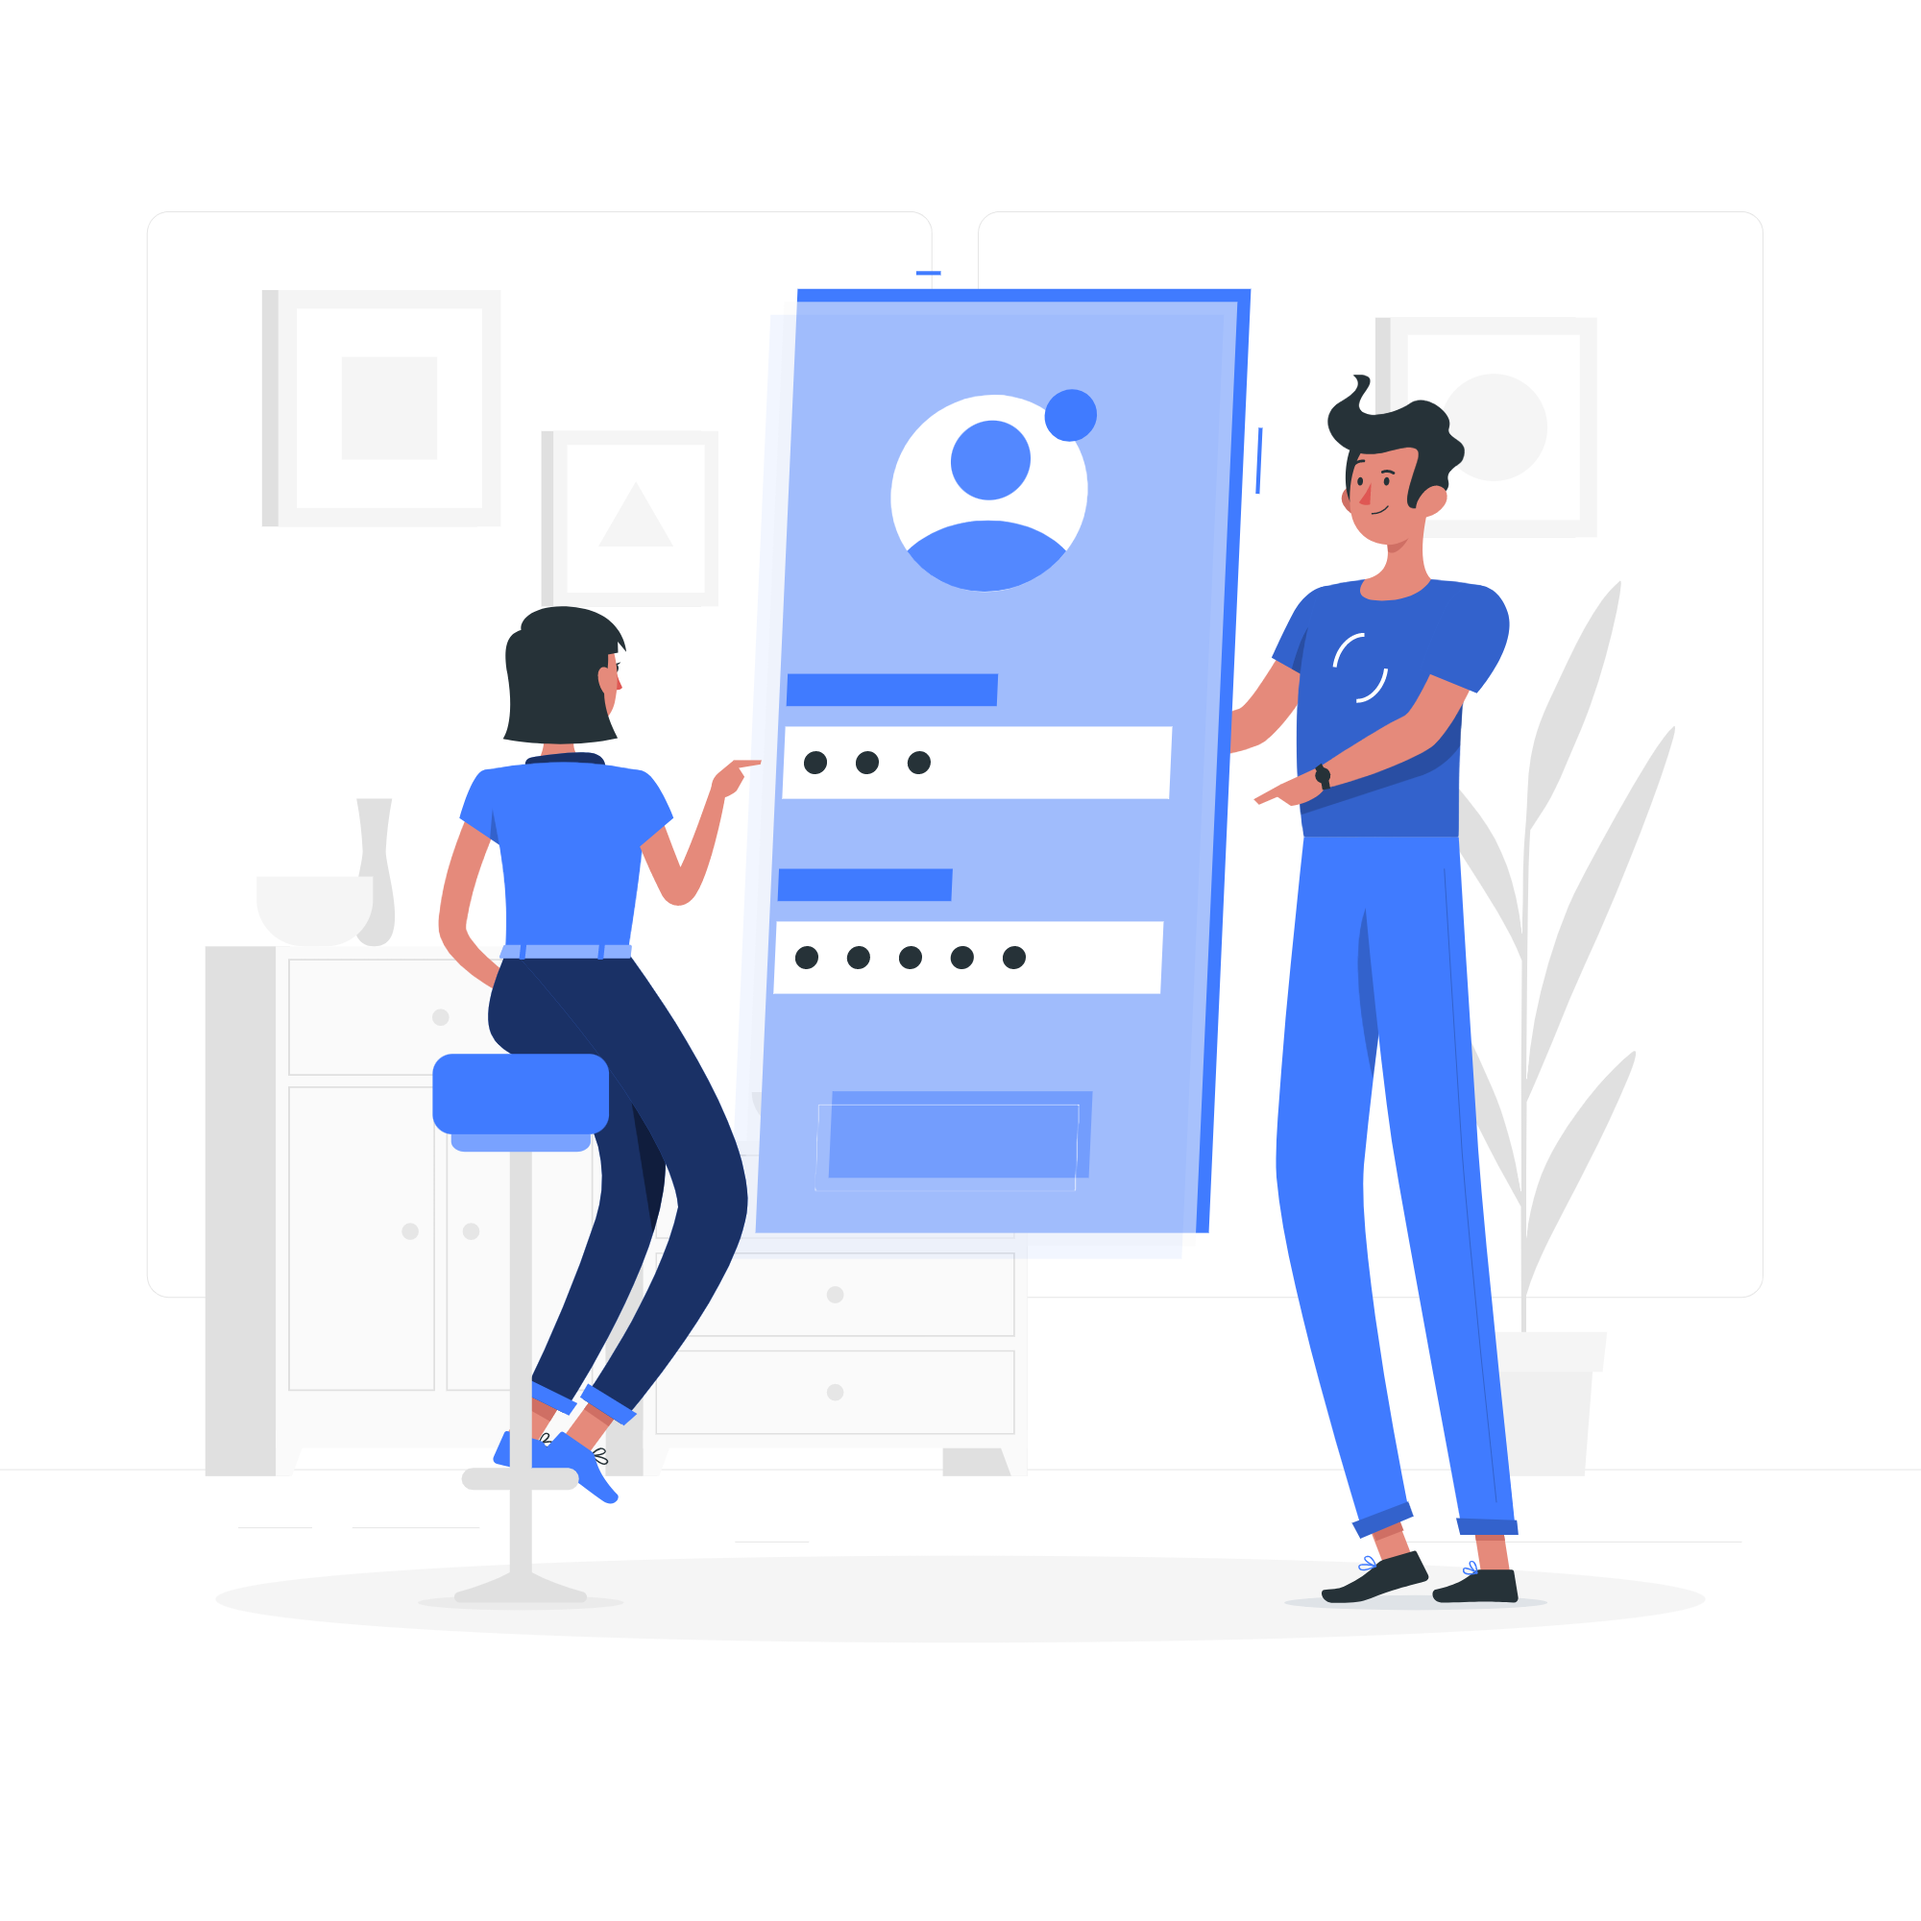
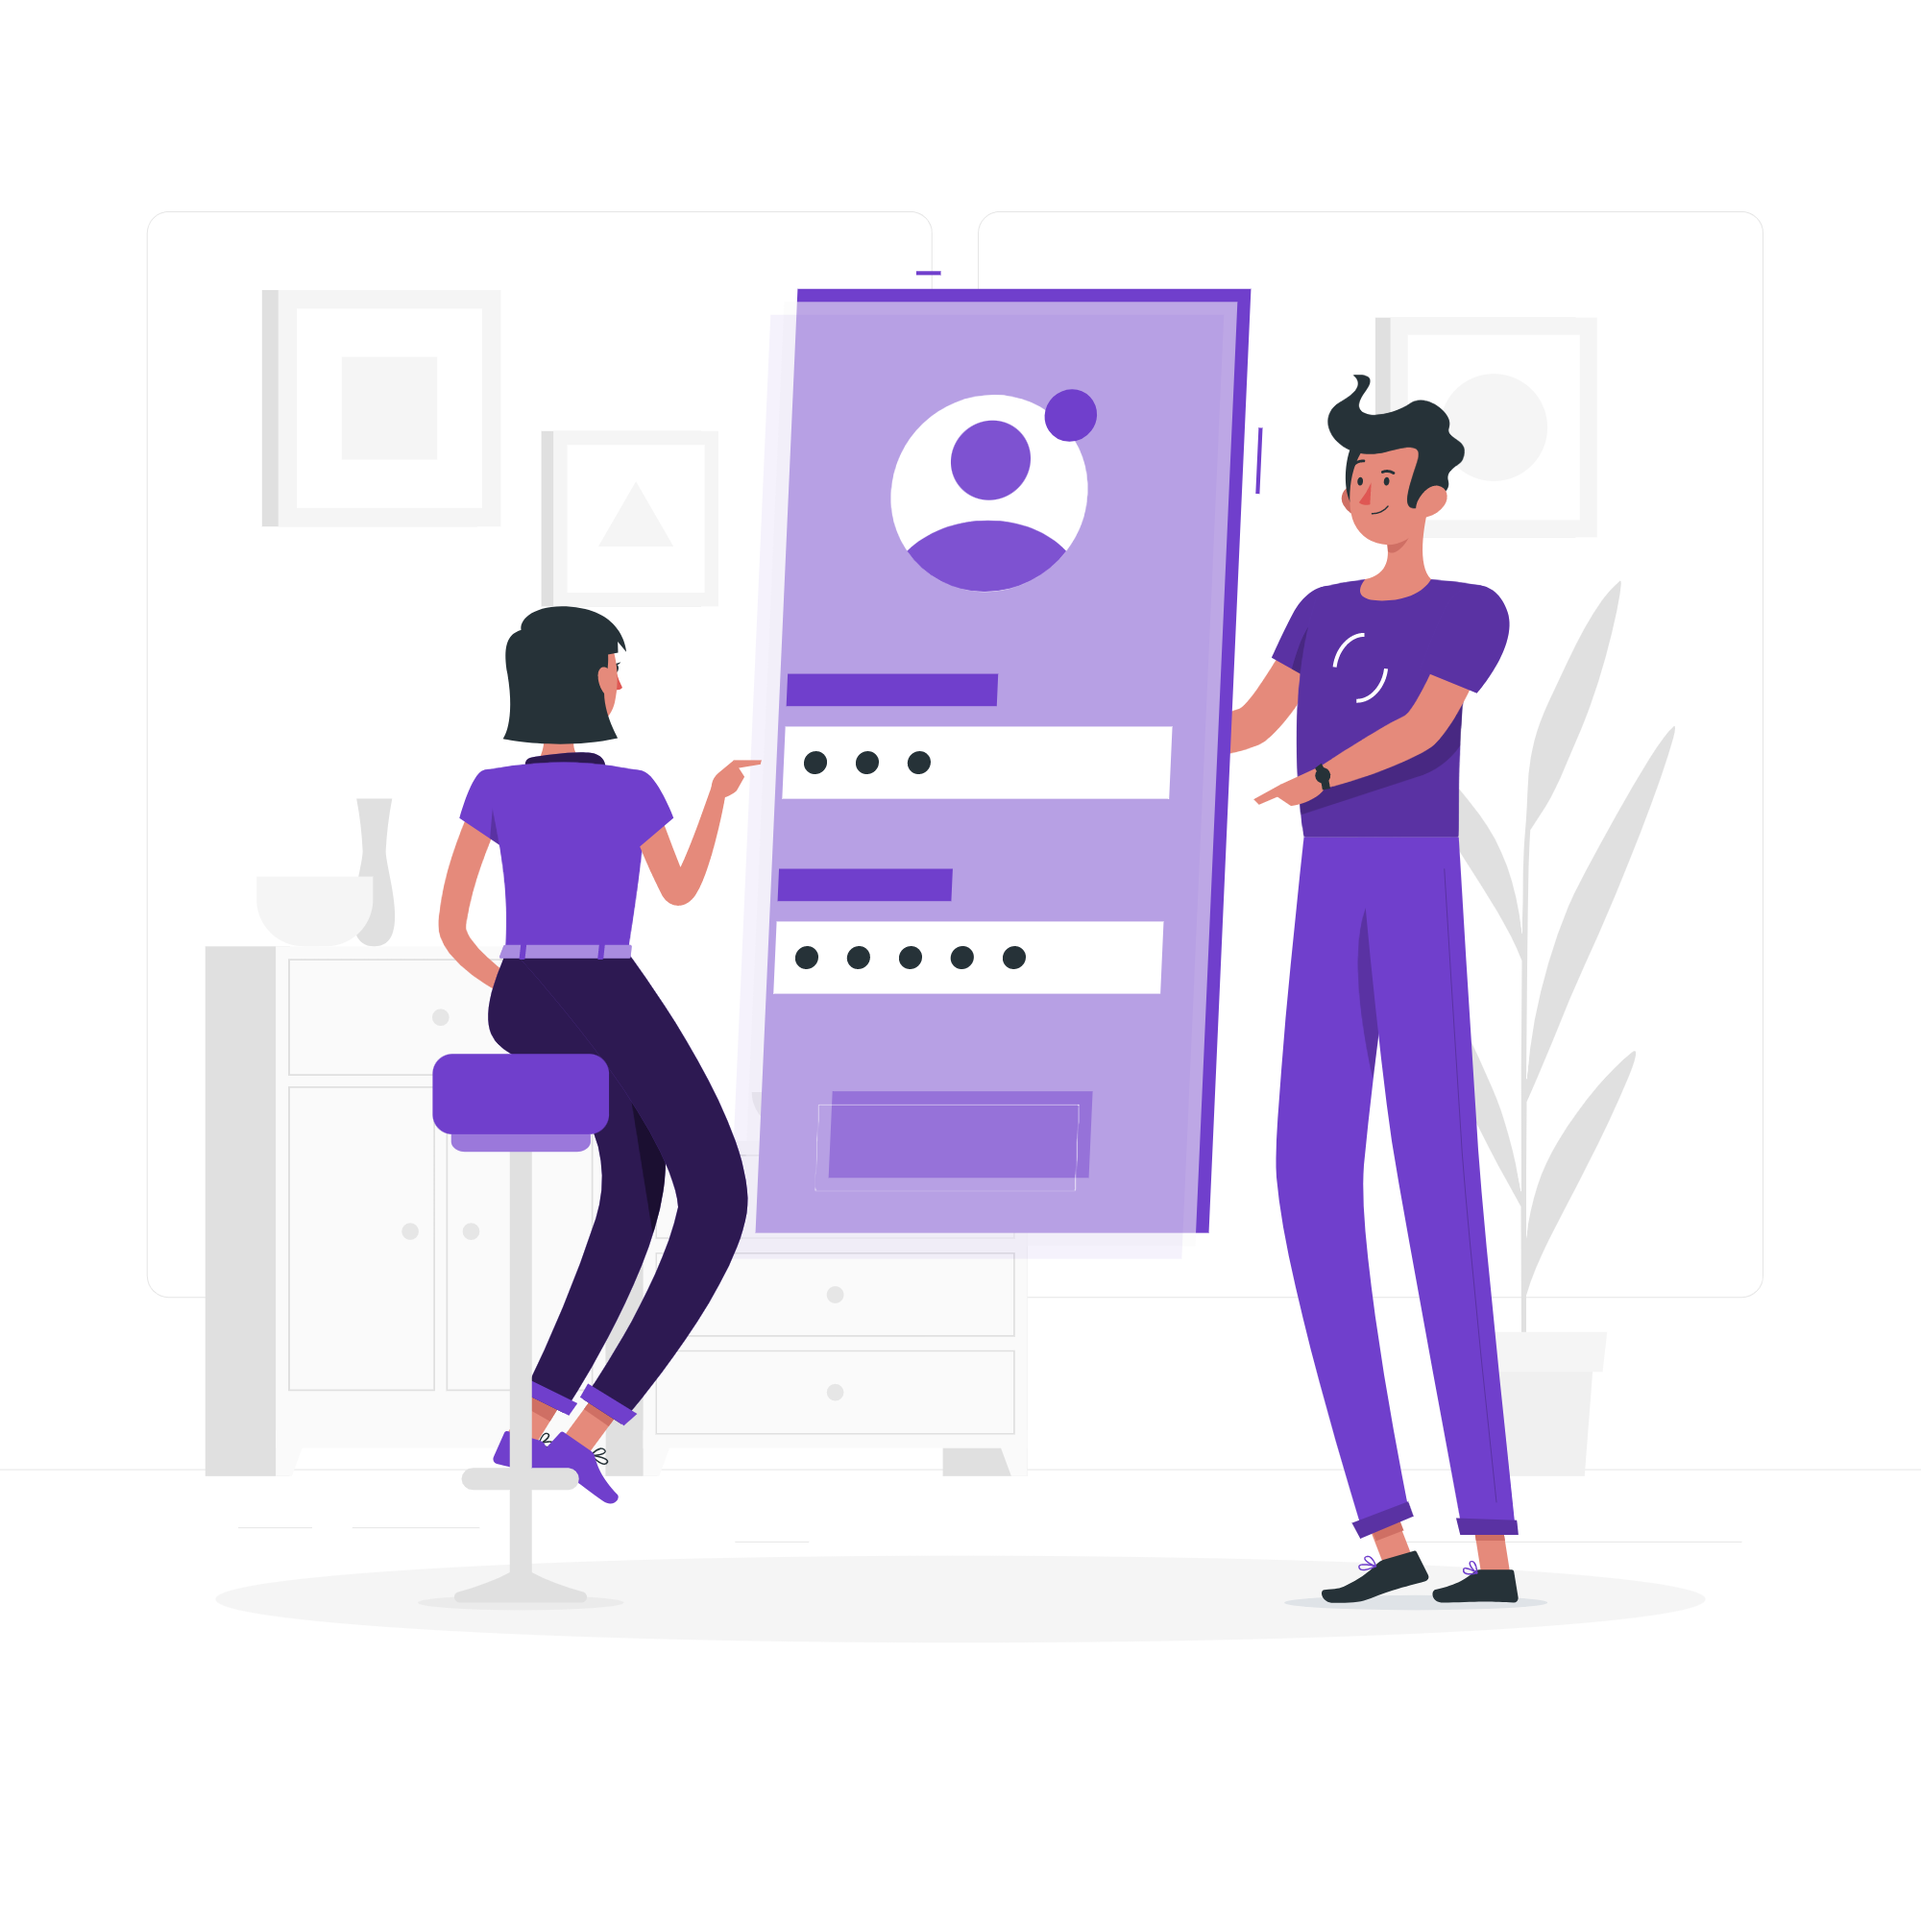
Day 9 completed basic part of drawer

Changed region(s): [[0.372, 0.124, 0.806, 0.806], [0.217, 0.372, 0.372, 0.62], [0.248, 0.713, 0.341, 0.775]]

diff --git a/lib/widgets/drawer.dart b/lib/widgets/drawer.dart
@@ -1,0 +1,72 @@
+import 'package:flutter/cupertino.dart';
+import 'package:flutter/material.dart';
+
+class MyDrawer extends StatelessWidget {
+  const MyDrawer({super.key});
+
+  @override
+  Widget build(BuildContext context) {
+    const imageUrl = "https://i.pinimg.com/474x/51/96/b3/5196b34be5aec2079e4b68190299a544.jpg";
+
+    return Drawer(
+      child: Container(
+        color: Colors.deepPurple,
+        child: ListView(
+          padding: EdgeInsets.zero,
+          children: const [
+            DrawerHeader(
+              padding: EdgeInsets.zero,
+              child: UserAccountsDrawerHeader(
+                  margin: EdgeInsets.zero,
+                  accountName: Text("Abhishek Bansode"),
+                  accountEmail: Text("mtechviral.@gmail.com"),
+                  currentAccountPicture: CircleAvatar(
+                    backgroundImage: NetworkImage(imageUrl),
+                  ),
+                ),
+            ),
+            ListTile(
+              leading: Icon(
+                CupertinoIcons.home,
+                color: Colors.white,
+              ),
+              title: Text(
+                "Home",
+                textScaleFactor: 1.3,
+                style: TextStyle(
+                  color: Colors.white,
+                ),
+              ),
+            ),
+            ListTile(
+              leading: Icon(
+                CupertinoIcons.profile_circled,
+                color: Colors.white,
+              ),
+              title: Text(
+                "Profile",
+                textScaleFactor: 1.3,
+                style: TextStyle(
+                  color: Colors.white,
+                ),
+              ),
+            ),
+            ListTile(
+              leading: Icon(
+                CupertinoIcons.mail,
+                color: Colors.white,
+              ),
+              title: Text(
+                "Email",
+                textScaleFactor: 1.3,
+                style: TextStyle(
+                  color: Colors.white,
+                ),
+              ),
+            )
+          ],
+        ),
+      ),
+    );
+  }
+}

diff --git a/lib/main.dart b/lib/main.dart
@@ -20,8 +20,9 @@ class MyApp extends StatelessWidget {
         primarySwatch: Colors.deepPurple,
         fontFamily: GoogleFonts.lato().fontFamily,
       ),
+      debugShowCheckedModeBanner: false,
       darkTheme: ThemeData(brightness: Brightness.dark),
-      // initialRoute: "/home",
+      initialRoute: "/home",
       routes: {
         "/": (context) => const LoginPage(),
         MyRoutes.homeRoute: (context) => const HomePage(),

diff --git a/lib/pages/home_page.dart b/lib/pages/home_page.dart
@@ -1,4 +1,5 @@
 import 'package:flutter/material.dart';
+import 'package:flutter_catalog/widgets/drawer.dart';
 
 class HomePage extends StatelessWidget {
   final int days = 30;
@@ -15,7 +16,7 @@ class HomePage extends StatelessWidget {
       body: Center(
         child: Text("Welcome to $days days of flutter by $name"),
       ),
-      drawer: const Drawer(),
+      drawer: const MyDrawer(),
     );
   }
 }

diff --git a/lib/pages/login_page.dart b/lib/pages/login_page.dart
@@ -93,7 +93,7 @@ class _LoginPageState extends State<LoginPage> {
                     ),
 
                     Material(
-                      color: const Color.fromARGB(255, 40, 126, 230),
+                      color: const Color.fromARGB(255, 103, 58, 183),
                       borderRadius:
                           BorderRadius.circular(changeButton ? 50 : 8),
                       child: InkWell(
